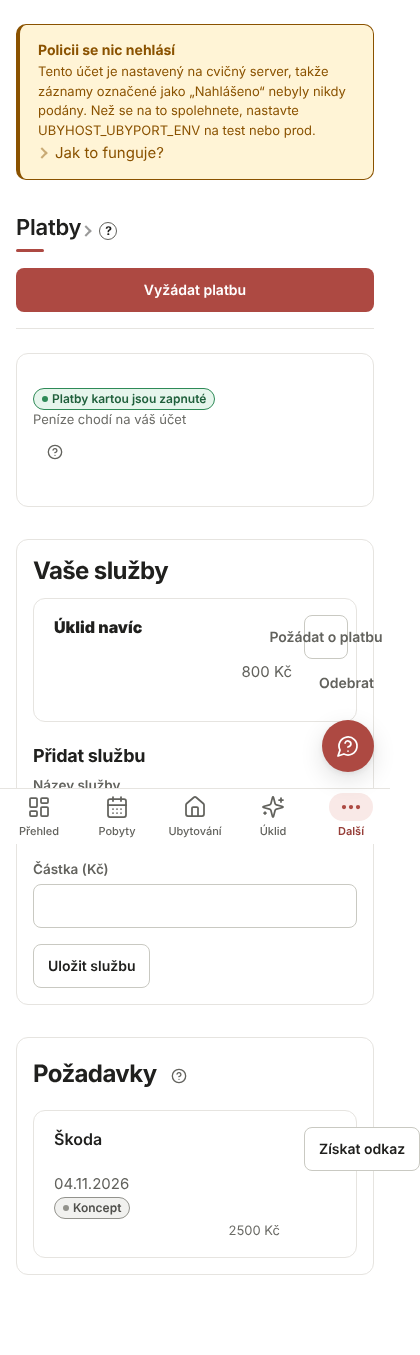
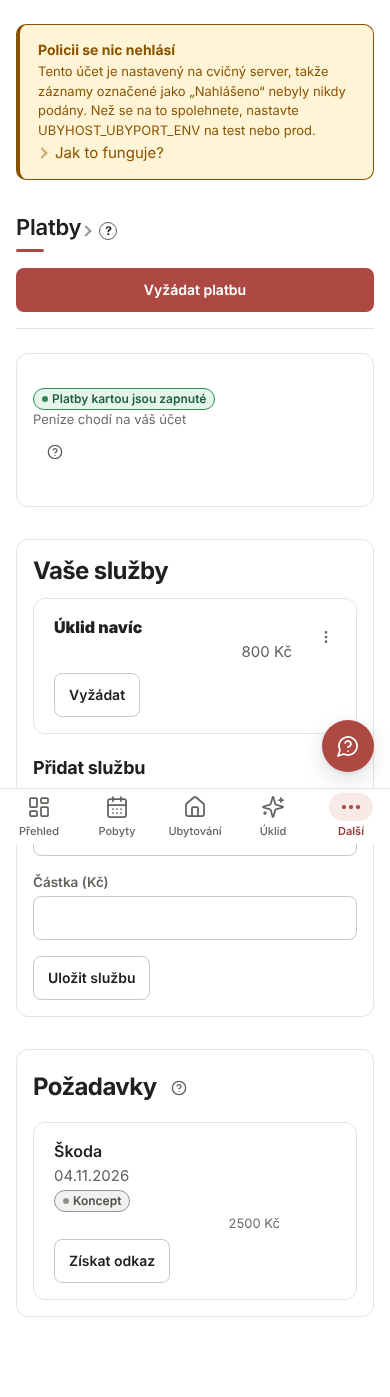
0908 fix: row-action pattern for payments rows, compact setup button, report
Claude-Session: https://claude.ai/code/session_01Cjmb7RVQyd7unezSAcvtfB

diff --git a/App/app/templates/payments.html b/App/app/templates/payments.html
@@ -2,7 +2,7 @@
 {% set nav = 'payments' %}
 {% set how_key = 'payments' %}
 {% set body_kind = 'list' %}
-{% from "_components.html" import empty_state with context %}
+{% from "_components.html" import empty_state, row_menu_begin, row_menu_end with context %}
 {% from "_ui.html" import ui_button, ui_tip with context %}
 {% from "_ui_layout.html" import ui_table_begin, ui_table_end with context %}
 {% block title %}{{ t('payments.title') }}{% endblock %}
@@ -40,7 +40,7 @@
           {% if step.key == 'details' %}
             {% if setup.entity %}
             <span class="ui-sub">{{ setup.entity.name }}{% if setup.entity.contact_email %} · {{ setup.entity.contact_email }}{% endif %}</span>
-            <a class="setup-summary-action" href="{{ step.href }}">{{ t('payments.setup.details_edit') }}</a>
+            {{ ui_button(t('payments.setup.details_edit'), 'secondary', href=step.href, size='compact') }}
             {% else %}
             <span class="ui-sub">{{ t('payments.setup.details_missing') }}</span>
             {% endif %}
@@ -78,11 +78,17 @@
   <tr class="ui-row" data-service="{{ s.id }}">
     <td class="ui-cell-first" data-card="primary"><strong>{{ s.name }}</strong></td>
     <td class="ui-cell-r" data-card="secondary">{{ s.amount_czk }} {{ t('payments.czk') }}</td>
-    <td class="ui-cell-acts" data-card="actions">
-      <a class="ui-btn ui-btn-secondary ui-btn-compact" href="/payments/new?service={{ s.id }}">{{ t('payments.services.request') }}</a>
-      <form method="post" action="/payments/services/{{ s.id }}/delete" data-confirm data-confirm-message="{{ t('payments.services.remove_confirm') }}" style="display:inline">
-        <button class="ui-btn ui-btn-quiet ui-btn-compact" type="submit">{{ t('payments.services.remove') }}</button>
+    <td class="row-actions" data-card="actions" data-label="">
+    <form method="get" action="/payments/new" class="row-action-form">
+      <input type="hidden" name="service" value="{{ s.id }}">
+      <button class="ui-btn ui-btn-secondary" type="submit">{{ t('payments.services.request_short') }}</button>
+    </form>
+    {{ row_menu_begin() }}
+      <form method="post" action="/payments/services/{{ s.id }}/delete" class="row-menu-form" data-confirm data-confirm-message="{{ t('payments.services.remove_confirm') }}">
+        <input type="hidden" name="_csrf" value="{{ csrf_token }}">
+        <button class="row-menu-item" type="submit" role="menuitem">{{ t('payments.services.remove') }}</button>
       </form>
+    {{ row_menu_end() }}
     </td>
   </tr>
   {% endfor %}
@@ -113,20 +119,32 @@
     <td class="ui-sub" data-card="secondary">{{ req.created_at | date_cz }}</td>
     <td class="ui-cell-r" data-card="meta">{{ req.amount_czk }} {{ t('payments.czk') }}</td>
     <td data-card="badge"><span class="ui-badge ui-badge-neutral" data-tone="grey">{{ t('payments.status.' ~ req.status) }}</span></td>
-    <td class="ui-cell-acts row-actions" data-card="actions">
-      {% if req.rail == 'card' and req.status in ['draft', 'sent', 'awaiting_payment'] %}
-      <form method="post" action="/payments/requests/{{ req.id }}/link" style="display:inline">
-        <button class="ui-btn ui-btn-secondary ui-btn-compact" type="submit">{{ t('payments.get_link') }}</button>
+    <td class="row-actions" data-card="actions" data-label="">
+      {% set can_link = req.rail == 'card' and req.status in ['draft', 'sent', 'awaiting_payment'] %}
+      {% set can_send = req.status == 'draft' and req.guest_email %}
+      {% set has_qr = req.status == 'draft' and req.rail == 'qr' %}
+      {% if can_link %}
+      <form method="post" action="/payments/requests/{{ req.id }}/link" class="row-action-form">
+        <input type="hidden" name="_csrf" value="{{ csrf_token }}">
+        <button class="ui-btn ui-btn-secondary" type="submit">{{ t('payments.get_link') }}</button>
+      </form>
+      {% elif can_send %}
+      <form method="post" action="/payments/requests/{{ req.id }}/send" class="row-action-form">
+        <input type="hidden" name="_csrf" value="{{ csrf_token }}">
+        <button class="ui-btn ui-btn-secondary" type="submit">{{ t('payments.send') }}</button>
       </form>
       {% endif %}
-      {% if req.status == 'draft' and req.guest_email %}
-      <form method="post" action="/payments/requests/{{ req.id }}/send" style="display:inline">
-        <button class="ui-btn ui-btn-primary ui-btn-compact" type="submit">{{ t('payments.send') }}</button>
-      </form>
-      {% elif req.status == 'draft' and req.rail != 'card' %}
-      <span class="ui-sub">{{ t('payments.need_email') }}</span>
+      {% if (can_send and can_link) or has_qr %}
+      {{ row_menu_begin() }}
+        {% if can_send and can_link %}
+        <form method="post" action="/payments/requests/{{ req.id }}/send" class="row-menu-form">
+          <input type="hidden" name="_csrf" value="{{ csrf_token }}">
+          <button class="row-menu-item" type="submit" role="menuitem">{{ t('payments.send') }}</button>
+        </form>
+        {% endif %}
+        {% if has_qr %}<a class="row-menu-item" href="/payments/qr/{{ req.id }}" role="menuitem">{{ t('payments.qr.preview') }}</a>{% endif %}
+      {{ row_menu_end() }}
       {% endif %}
-      {% if req.status == 'draft' and req.rail == 'qr' %}<a class="ui-btn ui-btn-secondary ui-btn-compact" href="/payments/qr/{{ req.id }}">{{ t('payments.qr.preview') }}</a>{% endif %}
     </td>
   </tr>
   {% endfor %}

diff --git a/App/app/host_i18n.py b/App/app/host_i18n.py
@@ -1535,6 +1535,7 @@ STRINGS: Dict[str, Dict[str, str]] = {
         "payments.services.name": "Service name",
         "payments.services.add": "Save service",
         "payments.services.request": "Request payment",
+        "payments.services.request_short": "Request",
         "payments.services.remove": "Remove",
         "payments.services.remove_confirm": "Remove this service from your list?",
         "payments.services.saved": "Service saved.",
@@ -3587,6 +3588,7 @@ STRINGS: Dict[str, Dict[str, str]] = {
         "payments.services.name": "Název služby",
         "payments.services.add": "Uložit službu",
         "payments.services.request": "Požádat o platbu",
+        "payments.services.request_short": "Vyžádat",
         "payments.services.remove": "Odebrat",
         "payments.services.remove_confirm": "Odebrat tuto službu ze seznamu?",
         "payments.services.saved": "Služba uložena.",

diff --git a/docs/tasks/0908-report.md b/docs/tasks/0908-report.md
@@ -1,6 +1,6 @@
 # 0908 report: payments page in phone v2
 
-Status: blocked. Two layout findings need a CSS or catalog decision (brief section 8: new CSS needed). PR not opened (owner or orchestrator opens it).
+Status: review. Both findings from the first run are fixed with catalog patterns (no new CSS): request and service actions use `row-actions` with one visible `row-action-form` and the rest in `row_menu_begin/end`; the setup "Upravit" link is a compact secondary button. PR not opened (owner or orchestrator opens it).
 
 ## Files changed
 - `App/app/routes/payments.py`: 303 redirect for `service` / `reservation_id`; `GET /payments/new`; failed-POST redirects to `/payments/new`.
@@ -14,16 +14,16 @@ Status: blocked. Two layout findings need a CSS or catalog decision (brief secti
 - `docs/tasks/screenshots-0908/`: lint shots `payments-{390,768,1280}.png`, `payments-new-{390,768,1280}.png`; test shots `payments-{setup,complete,rows}-390.png`, `payments-new-{setup,complete,rows}-390.png`.
 
 ## Test results (UBYHOST_BROWSER_EXECUTABLE set, UBYHOST_REQUIRE_BROWSER=1)
-- Payments row (request model, services, dashboard, setup browser, stripe connect, new layout test, host i18n): `2 failed, 77 passed`. 0 skipped. The 2 failures are the findings below.
-- `tests/test_layout_lint_browser.py`: `2 passed`, 0 skipped.
+- Payments row (request model, services, dashboard, setup browser, stripe connect, new layout test, host i18n): `79 passed`, 0 skipped.
+- `tests/test_layout_lint_browser.py`: `2 passed`, 0 skipped (after the fix).
 - `python3 scripts/context_lint.py`: OK (earlier run).
 - Note: `tests/test_host_i18n.py` run alone shows 3 `no such table` failures on the base branch too (pre-existing, DB order). In the combined run above they pass.
 
 ## Per page (what I saw)
 - `/payments` (lint fixture, Stripe off): 390: one card "Card payments are off on this server", no overflow. 768: same, centred lane. 1280: sidebar plus card, no overflow.
-- `/payments/new`: 390: fields stacked, reason chips wrap, Card / Bank QR chips, full-width "Get link". The fixed bottom tab bar covers the lower fields in the full-page capture (capture artifact of the fixed bar). 768: single lane, chips wrap, button left. 1280: narrow centred form, chips in two rows, button left.
-- `/payments`, setup state (`payments-setup-390.png`): step cards fit. FAIL: the "Upravit" link is 18 px high (existing 0729 setup markup, `setup-summary-action`), under the 44 px rule.
-- `/payments`, rows state (`payments-rows-390.png`, test shot): FAIL: the row action buttons ("Požádat o platbu", "Získat odkaz", "Odebrat") run past the card's right edge. At 320, 390 and 768 the Get-link/Request button ends at 350, 420 and 790 px. Horizontal scroll at those widths. Needs CSS on the stacked action cell (or a catalog change), which the brief forbids.
+- `/payments/new`: 390: fields stacked, reason chips wrap, Card / Bank QR chips, full-width "Get link". The fixed bottom tab bar covers the lower fields in the full-page capture (capture artifact). 768: single lane, chips wrap. 1280: narrow centred form, chips in two rows.
+- `/payments`, setup state (`payments-setup-390.png`): the setup steps fit; "Upravit" is now a 44 px compact secondary button in step 2.
+- `/payments`, rows state (`payments-rows-390.png`, test shot): header action "Vyžádat platbu" fits. Services: one row with name, amount, the visible "Vyžádat" form button, and the row menu (three dots) holding Remove. Requests: one row with reason, date, status pill, amount and the visible "Získat odkaz" button (open card request). Nothing overflows at 320, 390 or 768.
 
 ## Deviations
 - Header action is shown whenever Stripe is not off (per coordinator); label is the new key `payments.overview.request` ("Vyžádat platbu"), not the existing "Nová platební žádost".
@@ -33,5 +33,4 @@ Status: blocked. Two layout findings need a CSS or catalog decision (brief secti
 - Primary-button check is automated for the body and the header (max one each); the "clipped primary text" check is not automated.
 
 ## Owner steps left
-- Decide: fix the stacked action cell overflow and the 18 px "Upravit" link (CSS or catalog). Until then the layout test stays red; do not merge on green.
-- Open the draft PR after that.
+- Open the draft PR (the orchestrator opens it).
